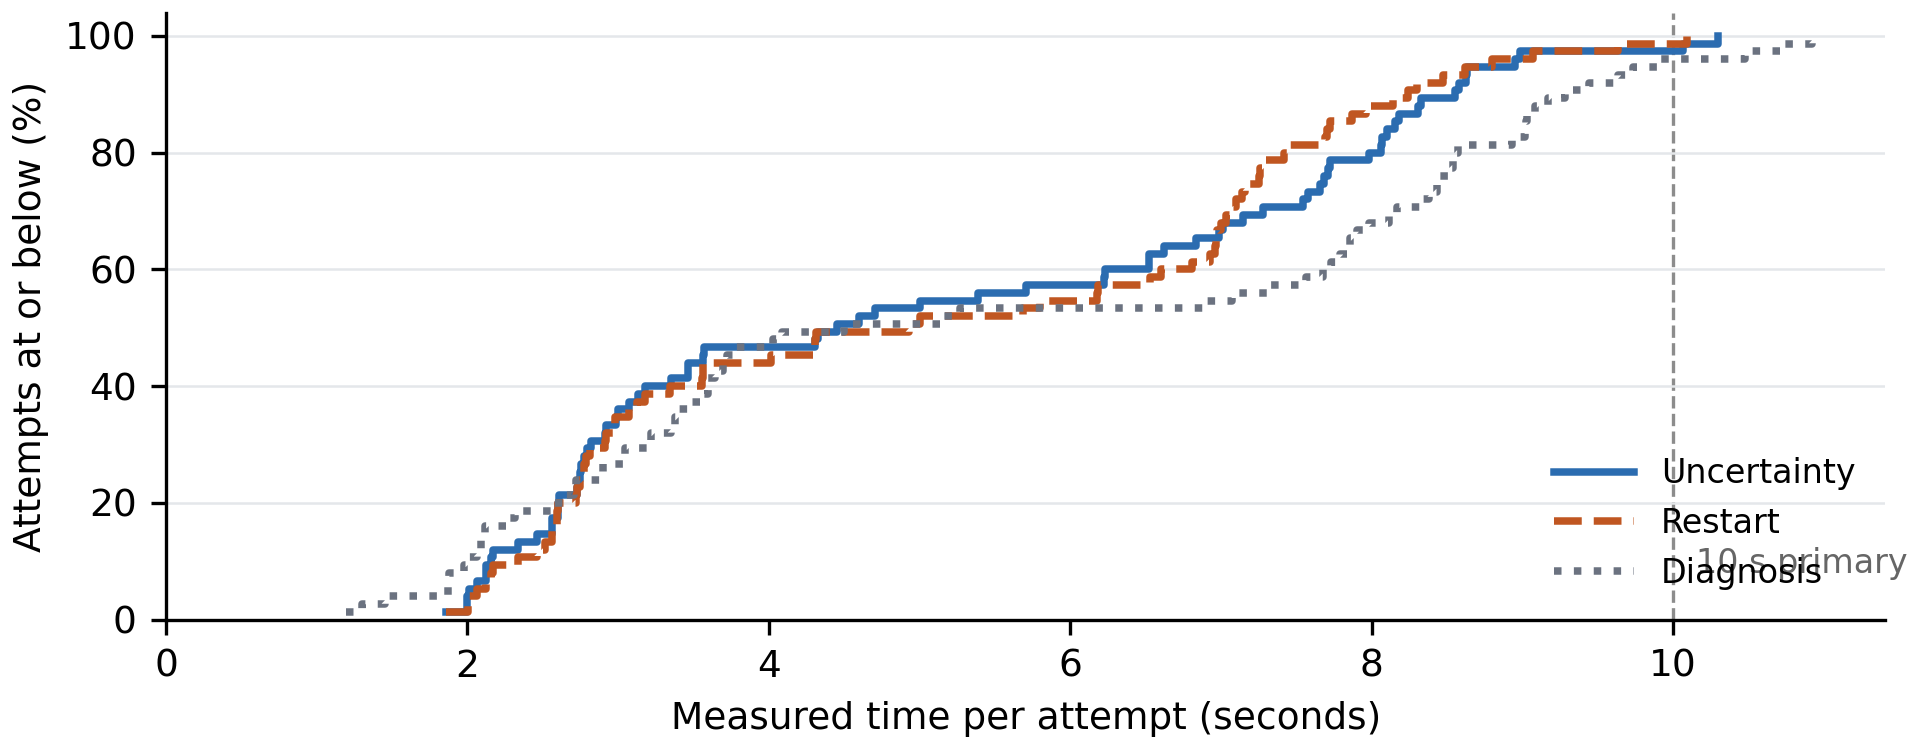
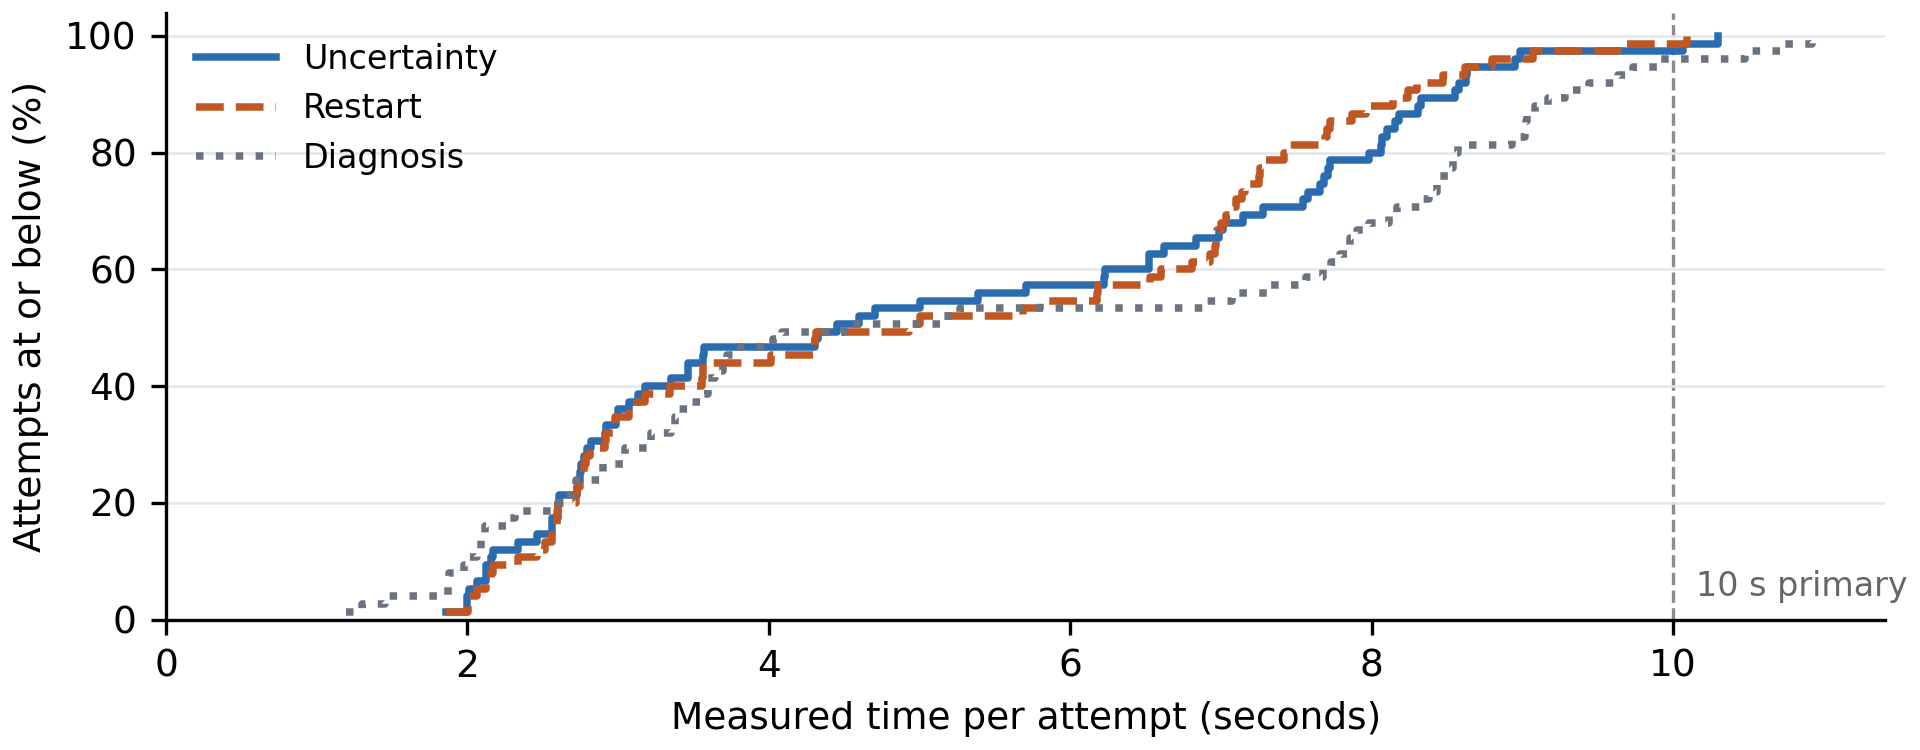
Prepare the Mistral swap cell and fix the runtime figure legend
Freezes the second model cell of the length-matched swap design on the same
200-question cohort as the Qwen cell, so the two are a direct model contrast.
Shared question identifiers are recorded in the protocol as the reason no
pooled confirmatory statistic is reported across cells.

The preparation lives in its own module rather than extending the existing
one. That file is frozen by checksum inside the already-executed Qwen
package, so editing it invalidated a completed study's provenance; the
calibration function is duplicated deliberately for the same reason.

Mistral brings far more calibration data than Qwen: 91 and 78 development
failures against 49 and 34.

The frozen allocation carries the true prior spend rather than the stale
figure, so the package refuses to launch until the envelope is raised as a
deliberate, recorded act.

Also moves the runtime latency figure's legend off the threshold annotation,
which was covering it, and adds a guard that rejects generated macro names
containing digits. A digit makes an invalid LaTeX control sequence and fails
the build at \begin{document} with a misleading error.

diff --git a/scripts/prepare_position_pair_mistral.py b/scripts/prepare_position_pair_mistral.py
@@ -1,0 +1,162 @@
+"""Freeze the Mistral cell of the length-matched swap design.
+
+Kept separate from `prepare_position_pair_study.py` on purpose: that file is
+frozen by checksum inside the already-executed Qwen package, so editing it
+would invalidate a completed study's provenance.
+
+The question cohort is copied from the Qwen cell so the two face identical
+questions, as the replication does. Shared identifiers are exactly why no
+pooled confirmatory statistic is reported across model cells.
+"""
+from __future__ import annotations
+
+import argparse
+import json
+from pathlib import Path
+import sys
+
+ROOT = Path(__file__).resolve().parents[1]
+sys.path.insert(0, str(ROOT))
+
+from scripts.analyze_extension_study import audit_trace, compare_uncertainty, require
+from scripts.prepare_extension_study import freeze_file, official_functions, MODELS, HINT
+from scripts.prepare_position_pair_study import BASE, DATASETS, PREVIOUS
+from scripts.run_extension_study import load_envelope, uncertainty_record
+from src.agent.react_agent import SYSTEM_PROMPT
+from src.repair.controlled import fingerprint, file_fingerprint
+from src.repair.diagnosis import TREATMENT
+from src.repair.position_matched import fit_position_profile
+from src.repair.position_pairs import POLICIES, SWAP
+from src.utils.cloud_runs import write_once
+
+MODEL = "mistral12b"
+RUN_ID = "position-pairs-mistral-20260917-v1"
+QWEN_PACKAGE = BASE / "prepared-v2"
+# Conservative gross spend before this cell: the frozen 90.12 plus the
+# September 16 Qwen session and its retrieval. Freezing the true figure means
+# validate_live_checks refuses to launch until the allocation is raised.
+PRIOR_SPENT_USD = 99.13
+FROZEN_SCRIPTS = ["run_position_pair_study.py", "analyze_position_pair_study.py",
+                  "run_position_pair_cloud.py", "prepare_position_pair_study.py",
+                  "prepare_position_pair_mistral.py", "run_extension_study.py",
+                  "analyze_extension_study.py", "prepare_extension_study.py",
+                  "configure_aws_stop.py", "run_aws_extension_study.py"]
+
+
+def calibration(previous, prior_protocol, dataset, destination):
+    """Reclassify this model's earlier originals as development for the fresh cell.
+
+    Mirrors the Qwen cell's calibration, bound to this model. The function is
+    copied rather than imported because the original is frozen inside a
+    completed package and pins its own model key.
+    """
+    results = previous / "retrieved/results" / MODEL
+    signature = json.loads((results / "model.json").read_text())["payload"]
+    identity = {"protocol_sha256": fingerprint(prior_protocol), "model_key": MODEL, "model": signature}
+    load_envelope(results / "model.json", identity)
+    identity = {**identity, "dataset": dataset}
+    records = {r["_id"]: r for r in json.loads((previous / "retrieved/package/data" / f"{dataset}.json").read_text())}
+    official = official_functions(previous / "retrieved/package/references" / f"{dataset}.py", dataset)
+    originals, uncertainties, source_hashes = [], {}, {}
+    cohort = prior_protocol["cohorts"][dataset]
+    ids = cohort["development_ids"] + cohort["main_ids"]
+    for role in ["development", "main"]:
+        for qid in cohort[role + "_ids"]:
+            trace_identity = {**identity, "qid": qid, "role": role, "record_sha256": fingerprint(records[qid])}
+            original_path = results / dataset / role / "originals" / f"{qid}.json"
+            original = load_envelope(original_path, trace_identity)
+            audit_trace(original, records[qid], prior_protocol, official)
+            unc_path = results / dataset / role / "uncertainty" / f"{qid}.json"
+            saved = load_envelope(unc_path, {**trace_identity, "original_sha256": fingerprint(original)})
+            recomputed = uncertainty_record(original)
+            compare_uncertainty(saved["steps"], recomputed["steps"])
+            for path in [original_path, unc_path]:
+                source_hashes[str(path.relative_to(previous))] = file_fingerprint(path)
+            if not original["success"]:
+                originals.append(original)
+                uncertainties[qid] = {**saved, "steps": recomputed["steps"]}
+    profile = fit_position_profile(originals, uncertainties, source_ids=ids, dataset=dataset,
+                                   strategy=TREATMENT, source_phase="development", source_run_id=RUN_ID,
+                                   model=MODELS[MODEL], source_sha256=fingerprint(originals))
+    payload = {"source_protocol_sha256": fingerprint(prior_protocol), "source_question_ids": ids,
+               "reused_for": "Development only in this fresh study; previous study unchanged",
+               "originals": originals, "uncertainties": uncertainties, "source_sha256": source_hashes,
+               "records": {t["qid"]: records[t["qid"]] for t in originals}, "profile": profile}
+    write_once(destination, payload)
+    return {"questions": len(ids), "failures": len(originals), "profile_sha256": profile["sha256"],
+            "calibration_sha256": file_fingerprint(destination)}
+
+
+def prepare(out=None, source=QWEN_PACKAGE, previous=PREVIOUS):
+    out = Path(out) if out else BASE / f"prepared-{MODEL}"
+    source, previous = Path(source), Path(previous)
+    frozen = json.loads((source / "protocol.json").read_text())
+    require(frozen["sha256"] == fingerprint(frozen["payload"]), "Source protocol checksum mismatch")
+    donor = frozen["payload"]
+    require(donor["model_key"] != MODEL, "Cohort source must be the other model's cell")
+
+    old = json.loads((previous / "retrieved/package/protocol.json").read_text())["payload"]
+    cohorts, calibrated = {}, {}
+    for dataset in DATASETS:
+        cohorts[dataset] = donor["cohorts"][dataset]
+        freeze_file(out / "data" / f"{dataset}.json",
+                    (source / "data" / f"{dataset}.json").read_bytes())
+        freeze_file(out / "references" / f"{dataset}.py",
+                    (source / "references" / f"{dataset}.py").read_bytes())
+        calibrated[dataset] = calibration(previous, old, dataset,
+                                          out / "calibration" / f"{dataset}.json")
+
+    protocol = {"schema": 1, "run_id": RUN_ID, "frozen_date_utc": "2026-09-17",
+        "model_key": MODEL, "models": {MODEL: MODELS[MODEL]}, "cohorts": cohorts,
+        "calibration": calibrated, "strategies": POLICIES, "seeds": donor["seeds"],
+        "main_n_per_dataset": donor["main_n_per_dataset"], "initial_seed": donor["initial_seed"],
+        "initial_temperature": donor["initial_temperature"],
+        "repair_temperature": donor["repair_temperature"],
+        "max_new_steps": donor["max_new_steps"], "max_tokens_per_step": donor["max_tokens_per_step"],
+        "max_model_len": donor["max_model_len"], "logprobs_topk": donor["logprobs_topk"],
+        "top_p": donor["top_p"], "retry_hint": HINT,
+        "generated_token_multiplier": donor["generated_token_multiplier"],
+        "system_prompt_sha256": fingerprint(SYSTEM_PROMPT), "prefix_caching": False,
+        "pairing_seed": donor["pairing_seed"], "analysis_seed": donor["analysis_seed"],
+        "bootstrap_iters": donor["bootstrap_iters"], "pairing": donor["pairing"],
+        "swap": donor["swap"], "scope": donor["scope"], "primary_control": SWAP,
+        "primary_family_size": donor["primary_family_size"],
+        "primary_family": donor["primary_family"], "resampling_unit": donor["resampling_unit"],
+        "secondary_control": donor["secondary_control"], "precision_note": donor["precision_note"],
+        "execution_order": donor["execution_order"], "completion": donor["completion"],
+        "cohort_source_run_id": donor["run_id"],
+        "cohort_source_protocol_sha256": frozen["sha256"],
+        "pooling_limitation": "Question identifiers are shared with the Qwen cell, so the two "
+                              "cells support a descriptive contrast only and no pooled "
+                              "confirmatory statistic.",
+        "allocation": {"total_usd": 119., "reserve_usd": 20.,
+                       "prior_gross_conservative_bound_usd": PRIOR_SPENT_USD,
+                       "session_gross_ceiling_usd": 8.50, "maximum_minutes": 70,
+                       "maximum_hourly_usd": 5.84531, "overhead_allowance_usd": 1.50},
+        "history_limitation": old["history_limitation"],
+        "prior_protocol_sha256": fingerprint(old),
+        "authorization": "Prepared on request September 17; NOT authorized to spend. The frozen "
+                         "prior exceeds the remaining envelope, so the live-check gate refuses "
+                         "a launch until the allocation is raised deliberately."}
+    write_once(out / "protocol.json", {"payload": protocol, "sha256": fingerprint(protocol)})
+    for folder in ["src", "tests"]:
+        for path in sorted((ROOT / folder).rglob("*.py")):
+            freeze_file(out / "code" / path.relative_to(ROOT), path.read_bytes())
+    for name in FROZEN_SCRIPTS:
+        freeze_file(out / "code/scripts" / name, (ROOT / "scripts" / name).read_bytes())
+    hashes = {str(p.relative_to(out)): file_fingerprint(p) for p in sorted(out.rglob("*"))
+              if p.is_file() and p.name != "package-manifest.json" and "__pycache__" not in p.parts}
+    write_once(out / "package-manifest.json", {"sha256": fingerprint(hashes), "files": hashes})
+    print(json.dumps({"protocol_sha256": fingerprint(protocol), "model": MODEL,
+                      "cohort_source": donor["run_id"],
+                      "main_questions": protocol["main_n_per_dataset"] * len(DATASETS),
+                      "calibration": calibrated, "allocation": protocol["allocation"]}, indent=2))
+    return protocol
+
+
+if __name__ == "__main__":
+    parser = argparse.ArgumentParser(description=__doc__)
+    parser.add_argument("--out", type=Path)
+    parser.add_argument("--source", type=Path, default=QWEN_PACKAGE)
+    args = parser.parse_args()
+    prepare(args.out, args.source)

diff --git a/scripts/runtime_scope.py b/scripts/runtime_scope.py
@@ -106,12 +106,12 @@ def latency_figure(out, scope, rows):
             ax.step(latency, 100 * fraction, where="post", color=colour, linestyle=style,
                     linewidth=1.8, label=LABELS[strategy])
         ax.axvline(10, color="#8c8c8c", linewidth=.8, linestyle="--", zorder=0)
-        ax.text(10.15, 8, "10 s primary", fontsize=8, color="#666666")
+        ax.text(10.15, 4, "10 s primary", fontsize=8, color="#666666")
         ax.set(xlabel="Measured time per attempt (seconds)",
                ylabel="Attempts at or below (%)", xlim=(0, None), ylim=(0, 104))
         ax.grid(axis="y", color="#e4e7ea", linewidth=.6)
         ax.set_axisbelow(True)
-        ax.legend(loc="lower right", frameon=False, fontsize=8, handlelength=2.4)
+        ax.legend(loc="upper left", frameon=False, fontsize=8, handlelength=2.4)
         for extension in ["pdf", "png"]:
             fig.savefig(Path(out) / "figures" / f"iclr2027_runtime_latency.{extension}", dpi=300)
         plt.close(fig)
